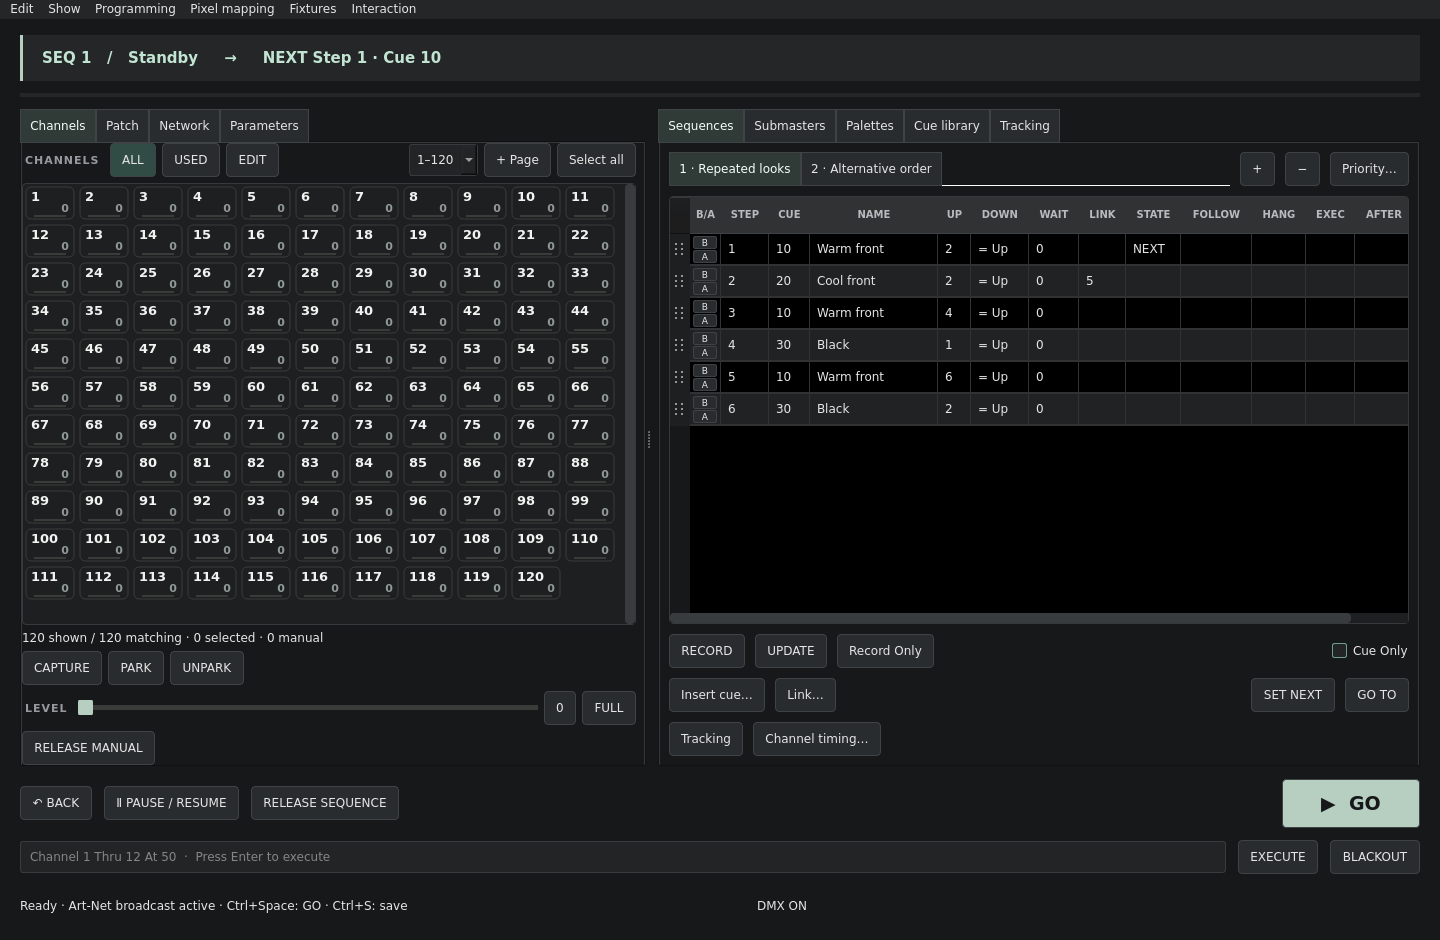
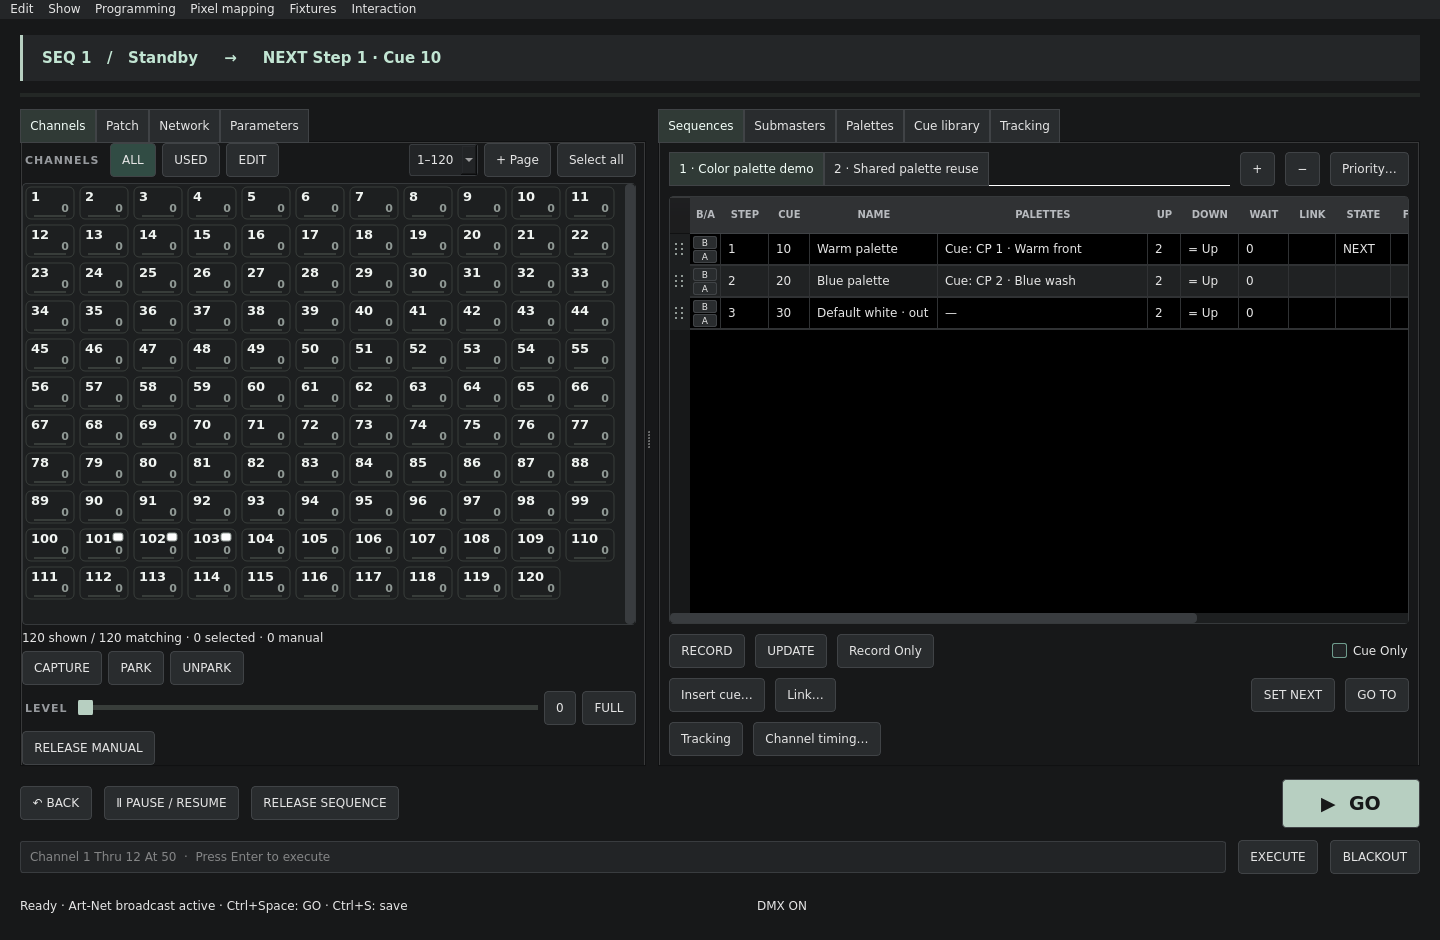
Show palette references in cue library and sequence steps

diff --git a/tests/ui_test.cpp b/tests/ui_test.cpp
@@ -28,6 +28,41 @@ class UiTests : public QObject {
         table->customContextMenuRequested(point);
     }
   private slots:
+    void paletteReferencesVisibleInCueAndStepLists() {
+        Engine e; e.fixtures[1] = {"rgb", 0}; e.patch[1] = 513;
+        int red = e.findOrCreateColorPalette({"Red front", 1, 0, 0});
+        int blue = e.findOrCreateColorPalette({"Blue wash", 0, 0, 1});
+        e.manual[1] = {50, 0}; e.applyColorPalette(1, red); e.storeCue("10");
+        e.insertStoredCue(0, "10"); e.insertStoredCue(0, "10");
+        auto keys = e.colorControls(1).keys();
+        for (int key : keys) e.sequences[0].cues[1].values[key] = {0, 0, blue};
+        e.palettes[3][1] = 50; e.cueLibrary["10"].values[1] = {50, 3};
+        QTemporaryFile file; QVERIFY(file.open()); file.write(QJsonDocument(e.json()).toJson()); file.flush();
+        Console window(file.fileName(), false); window.show(); QCoreApplication::processEvents();
+        auto library = window.findChild<QTableWidget *>("storedCueTable");
+        auto sheet = window.findChild<QTableWidget *>("cueSheet");
+        QVERIFY(library->item(0, 4)->text().contains("CP 1 · Red front"));
+        QVERIFY(library->item(0, 4)->text().contains("IP 3"));
+        QVERIFY(sheet->item(0, 15)->text().contains("Cue: CP 1 · Red front"));
+        QVERIFY(sheet->item(1, 15)->text().contains("Step: CP 2 · Blue wash"));
+        QVERIFY(!sheet->item(1, 15)->text().contains("CP 1"));
+        QVERIFY(sheet->item(1, 15)->text().contains("Cue: IP 3"));
+        QVERIFY(!sheet->item(1, 15)->flags().testFlag(Qt::ItemIsEditable));
+        QVERIFY(!library->isColumnHidden(4)); QVERIFY(!sheet->isColumnHidden(15));
+        QCOMPARE(sheet->horizontalHeader()->visualIndex(15), 4);
+        // Partial overrides show both references; suppressed shared moves disappear.
+        auto step = e.sequences[0].cues[0];
+        step.values[keys.first()] = {0, 0, blue};
+        auto refs = paletteReferences(e, e.cueValues(step), &step);
+        QVERIFY(refs.text.contains("Cue: CP 1")); QVERIFY(refs.text.contains("Step: CP 2"));
+        for (int key : keys) step.suppressed.insert(key);
+        step.values.clear(); refs = paletteReferences(e, e.cueValues(step), &step);
+        QVERIFY(!refs.text.contains("CP"));
+        e.colorPalettes[red].name = "Renamed red";
+        QVERIFY(paletteReferences(e, e.cueLibrary["10"].values).text.contains("Renamed red"));
+        QMap<int, Value> white; white[keys.first()] = {100, 0, 0};
+        QCOMPARE(paletteReferences(e, white).text, QString("—"));
+    }
     void updatingPartialLocalColorDoesNotLeakToSharedCue() {
         Engine e; e.fixtures[1] = {"rgb", 0}; e.patch[1] = 513; e.manual[1] = {50, 0};
         e.storeCue("10"); e.insertStoredCue(0, "10"); e.insertStoredCue(0, "10");
@@ -264,7 +299,7 @@ class UiTests : public QObject {
         auto record = window.findChild<QPushButton *>("recordButton");
         auto table = window.findChild<QTableWidget *>("cueSheet");
         auto list = window.findChild<QListWidget *>("channelList");
-        QCOMPARE(table->columnCount(), 15);
+        QCOMPARE(table->columnCount(), 16);
         QCOMPARE(table->horizontalHeaderItem(1)->text(), QString("CUE"));
         QVERIFY(!table->isColumnHidden(1));
         input->setText("1 at 20");

diff --git a/src/main.cpp b/src/main.cpp
@@ -1,3 +1,4 @@
+#include "palettereferences.h"
 #include "blinddialog.h"
 #include "channeldelegate.h"
 #include "editing.h"
@@ -214,6 +215,19 @@ class Console : public QMainWindow {
                     item->setText(vals[j]);
                 item->setForeground(QColor(i == s.current ? "#c2e5d3" : "#e5e5e5"));
             }
+            auto references = c.blocked;
+            const auto instructions = engine.cueValues(c);
+            for (auto it = instructions.cbegin(); it != instructions.cend(); ++it) references[it.key()] = it.value();
+            const auto palettes = paletteReferences(engine, references, &c);
+            auto paletteItem = cues->item(i, 15);
+            if (!paletteItem) {
+                paletteItem = new QTableWidgetItem;
+                paletteItem->setFlags(paletteItem->flags() & ~Qt::ItemIsEditable);
+                cues->setItem(i, 15, paletteItem);
+            }
+            if (paletteItem->text() != palettes.text) paletteItem->setText(palettes.text);
+            paletteItem->setToolTip(palettes.help);
+            paletteItem->setForeground(QColor(i == s.current ? "#c2e5d3" : "#e5e5e5"));
             stepFlags(i, s, c);
         }
         QString current = s.current >= 0
@@ -988,12 +1002,16 @@ class Console : public QMainWindow {
         cues->setItemDelegate(new TableDelegate(cues));
         cues->verticalHeader()->setDefaultSectionSize(32);
         cues->setHorizontalHeaderLabels(
-            {"STEP", "CUE", "NAME", "UP", "DOWN", "WAIT", "LINK", "VALUES", "INDIV.", "STATE", "FOLLOW", "HANG", "EXEC", "AFTER", "B/A"});
+            {"STEP", "CUE", "NAME", "UP", "DOWN", "WAIT", "LINK", "VALUES", "INDIV.", "STATE", "FOLLOW", "HANG", "EXEC", "AFTER", "B/A", "PALETTES"});
         cues->horizontalHeader()->setSectionResizeMode(QHeaderView::ResizeToContents);
         cues->horizontalHeader()->setSectionResizeMode(2, QHeaderView::Interactive);
         cues->setColumnWidth(2, 128); // Preserve legible cue names; scroll at narrow widths.
         cues->horizontalHeader()->setSectionResizeMode(14, QHeaderView::Fixed); cues->setColumnWidth(14, 30);
         cues->horizontalHeader()->moveSection(14, 0);
+        cues->horizontalHeader()->setSectionResizeMode(15, QHeaderView::Interactive);
+        cues->setColumnWidth(15, 210);
+        cues->horizontalHeader()->moveSection(cues->horizontalHeader()->visualIndex(15), 4);
+        cues->horizontalHeaderItem(15)->setToolTip("Stored palette references: Cue = shared cue; Step = local override or block. Hover a cell for affected controls.");
         cues->horizontalHeader()->viewport()->setStatusTip("Times are in seconds. Follow/Hang are mutually exclusive. Link, Execute and After target step IDs.");
         cues->hideColumn(7); cues->hideColumn(8); // Counts remain in row help, leaving space for editable triggers.
         cues->setContextMenuPolicy(Qt::CustomContextMenu);

diff --git a/src/cuelibrary.cpp b/src/cuelibrary.cpp
@@ -1,3 +1,4 @@
+#include "palettereferences.h"
 #include "cuelibrary.h"
 #include "tabledelegate.h"
 #include <cmath>
@@ -9,14 +10,17 @@ CueLibraryPanel::CueLibraryPanel(Engine &e, std::function<void()> editCallback,
     auto hint = new QLabel("Stored cues are shared looks. Insert the same cue into any sequence more than once. "
                            "Each occurrence has its own step number and timing.");
     hint->setWordWrap(true); layout->addWidget(hint);
-    table = new QTableWidget(0, 4); table->setObjectName("storedCueTable");
-    table->setHorizontalHeaderLabels({"CUE", "NAME", "VALUES", "USES"});
+    table = new QTableWidget(0, 5); table->setObjectName("storedCueTable");
+    table->setHorizontalHeaderLabels({"CUE", "NAME", "VALUES", "USES", "PALETTES"});
     table->setItemDelegate(new TableDelegate(table));
     table->setSelectionBehavior(QAbstractItemView::SelectRows);
     table->setSelectionMode(QAbstractItemView::SingleSelection);
     table->verticalHeader()->hide(); table->verticalHeader()->setDefaultSectionSize(32);
     table->horizontalHeader()->setSectionResizeMode(QHeaderView::ResizeToContents);
     table->horizontalHeader()->setSectionResizeMode(1, QHeaderView::Stretch);
+    table->horizontalHeader()->setSectionResizeMode(4, QHeaderView::Interactive);
+    table->setColumnWidth(4, 210);
+    table->horizontalHeader()->moveSection(4, 2);
     layout->addWidget(table, 1);
     auto actions = new QGridLayout;
     auto add = [&](QString text, int row, int col, std::function<void()> action, QString object, QString help) {
@@ -81,10 +85,12 @@ void CueLibraryPanel::reload(QString select) {
         const auto &cue = engine.cueLibrary[number]; int uses = 0;
         for (const auto &sequence : engine.sequences)
             for (const auto &step : sequence.cues) if (step.reference == number) ++uses;
-        QStringList fields{number, cue.label, QString::number(cue.values.size()), QString::number(uses)};
+        const auto palettes = paletteReferences(engine, cue.values);
+        QStringList fields{number, cue.label, QString::number(cue.values.size()), QString::number(uses), palettes.text};
         for (int col = 0; col < fields.size(); ++col) {
             auto item = new QTableWidgetItem(fields[col]); item->setData(Qt::UserRole, number);
             if (col >= 2) item->setFlags(item->flags() & ~Qt::ItemIsEditable);
+            if (col == 4) item->setToolTip(palettes.help);
             table->setItem(row, col, item);
         }
         if (number == select) table->selectRow(row);

diff --git a/src/palettereferences.h b/src/palettereferences.h
@@ -1,0 +1,41 @@
+#pragma once
+#include "engine.h"
+
+namespace Flame {
+struct PaletteReferences {
+    QString text, help;
+};
+
+// Summarize stored instructions, not resolved levels: equal RGB values can still
+// reference different palettes. The reserved white reference stays invisible.
+inline PaletteReferences paletteReferences(const Engine &engine, const QMap<int, Value> &values,
+                                           const Cue *step = nullptr) {
+    QMap<QString, QStringList> controls;
+    QSet<int> local;
+    if (step) {
+        const auto instructions = engine.cueValues(*step);
+        for (auto it = step->values.cbegin(); it != step->values.cend(); ++it) local.insert(it.key());
+        for (auto it = step->blocked.cbegin(); it != step->blocked.cend(); ++it)
+            if (!instructions.contains(it.key())) local.insert(it.key());
+    }
+    for (auto it = values.cbegin(); it != values.cend(); ++it) {
+        const auto &value = it.value();
+        QString label;
+        if (value.colorPalette > 0) {
+            label = QString("CP %1").arg(value.colorPalette);
+            const auto name = engine.colorPalette(value.colorPalette).name;
+            if (!name.isEmpty()) label += " · " + name;
+        } else if (value.palette > 0) label = QString("IP %1").arg(value.palette);
+        if (label.isEmpty()) continue;
+        if (step) label = (local.contains(it.key()) ? "Step: " : "Cue: ") + label;
+        controls[label].append(engine.controlLabel(it.key()));
+    }
+    QStringList labels, details;
+    for (auto it = controls.cbegin(); it != controls.cend(); ++it) {
+        labels << it.key();
+        details << it.key() + " — " + it.value().join(", ");
+    }
+    return {labels.isEmpty() ? QString("—") : labels.join(" / "),
+            details.isEmpty() ? QString("No visible palette references stored here.") : details.join("\n")};
+}
+}

diff --git a/src/steptable.h b/src/steptable.h
@@ -59,7 +59,7 @@ class StepTable : public QTableWidget {
     void clearDrop() { insertion = -1; scrollTimer.stop(); viewport()->update(); }
   public:
     std::function<void(int, int)> reorder;
-    explicit StepTable(QWidget *parent = nullptr) : QTableWidget(0, 15, parent) {
+    explicit StepTable(QWidget *parent = nullptr) : QTableWidget(0, 16, parent) {
         auto grip = new StepGripHeader(this); setVerticalHeader(grip);
         gripViewport = grip->viewport(); gripViewport->setAcceptDrops(true);
         gripViewport->installEventFilter(this);

diff --git a/docs/PALETTES.md b/docs/PALETTES.md
@@ -36,3 +36,7 @@ The same dialog is available by right-clicking a cue in the Cue library or a ref
 Eos offers several Update styles, including updating references or making data absolute. Their defaults depend on console/user configuration; Cold Flame does not implement the full Update dialog. See [Eos Update Dialogue Box](https://www.etcconnect.com/WebDocs/Controls/EosFamilyOnlineHelp/en/Content/12_Cues_and_Cue_Lists/07_%5BUpdate%5D/Update_Dialogue_Box.htm).
 
 Color references survive recordings made from a completed playback, save/load, cue/step edits, channel blocks and definition Undo/Redo. Recording a fade in progress captures intermediate values rather than substituting the final palette target. Show format 4 stores color palette definitions and references. Formats 1–3 remain readable; earlier application versions cannot read format 4.
+
+### References in cue and sequence lists
+
+The **PALETTES** column beside the cue name shows each stored color (`CP`) and intensity (`IP`) palette once. Color references include the palette name. Sequence rows distinguish **Cue:** references from the shared look and **Step:** references from local overrides or blocks. A fully overridden or suppressed shared reference is omitted; partial overrides show both. These columns show instructions stored at that step, rather than palettes tracked from earlier steps. Hover a cell to read the affected controls in the footer. Reserved white remains hidden.
